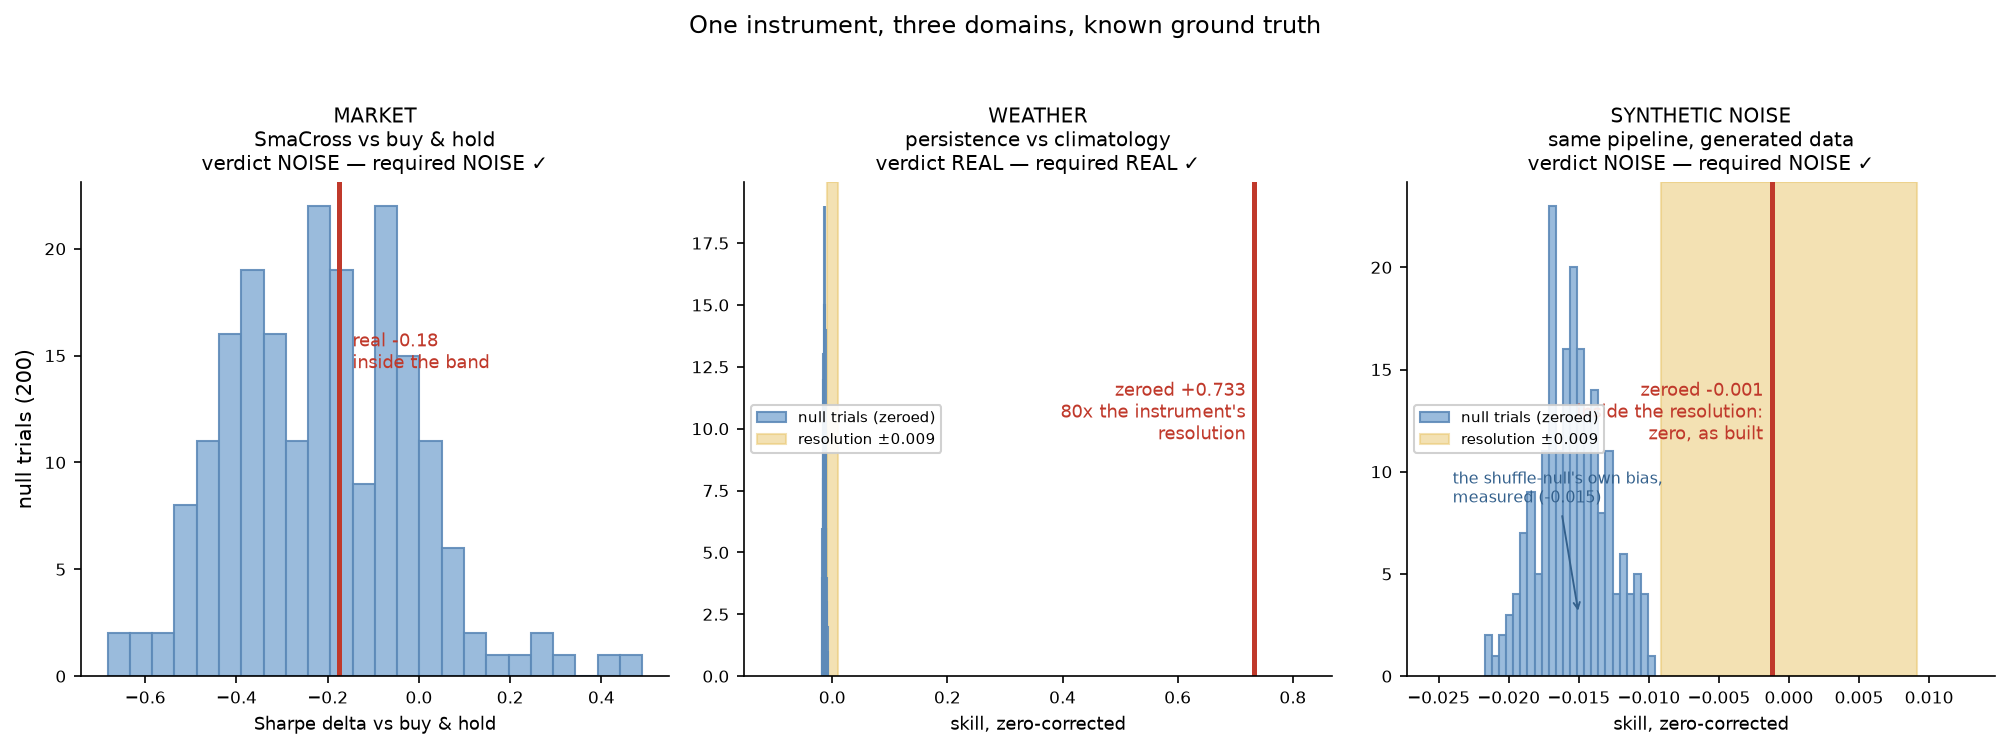
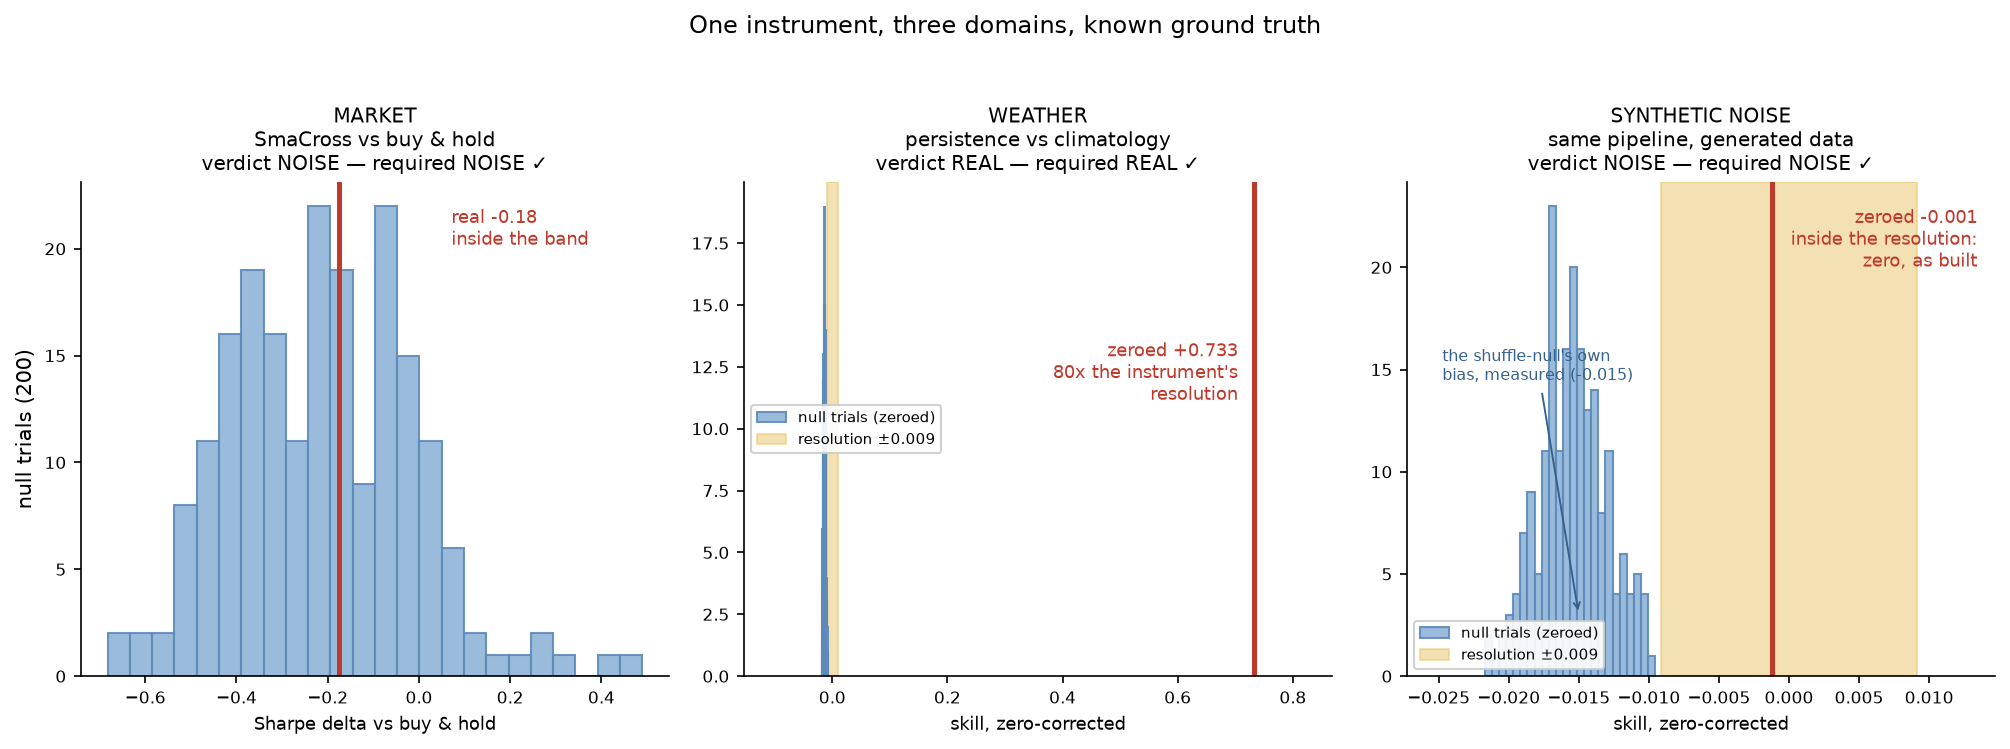
night2: fix clipped chart annotation (axes-fraction placement); chart generator committed to scripts/

diff --git a/scripts/make_universality_chart.py b/scripts/make_universality_chart.py
@@ -1,0 +1,112 @@
+#!/usr/bin/env python
+"""Regenerate reports/universality.png from the committed artifacts.
+
+The chart is a committed artifact, so its generator lives in the repo too —
+same discipline as refresh_docs.py. Reads night_bands.json,
+weather_validation.json and synthetic_noise_validation.json; writes the
+three-panel figure the README opens with.
+
+Layout note, learned the hard way: every annotation is placed in AXES
+FRACTION coordinates (ax.transAxes), never at data coordinates derived from
+the result values — a data-placed label near an axis edge clips silently
+("...de the resolution"), and nothing fails.
+
+Usage:  python scripts/make_universality_chart.py
+"""
+
+from __future__ import annotations
+
+import json
+import sys
+from pathlib import Path
+
+ROOT = Path(__file__).resolve().parent.parent
+sys.path.insert(0, str(ROOT))
+
+import matplotlib
+
+matplotlib.use("Agg")
+import matplotlib.pyplot as plt  # noqa: E402
+import numpy as np  # noqa: E402
+
+RED, BLUE, EDGE, AMBER = "#c0392b", "#8fb4d9", "#5d8ab8", "#e8c468"
+
+
+def main() -> int:
+    rep = ROOT / "reports"
+    nb = json.loads((rep / "night_bands.json").read_text(encoding="utf-8"))
+    wp = json.loads((rep / "weather_validation.json").read_text(
+        encoding="utf-8"))["results"]["persistence"]
+    sp = json.loads((rep / "synthetic_noise_validation.json").read_text(
+        encoding="utf-8"))["results"]["persistence"]
+
+    fig, axes = plt.subplots(1, 3, figsize=(13.5, 4.8), dpi=150)
+
+    # --- Panel 1: market, raw Sharpe delta ------------------------------
+    ax = axes[0]
+    null = np.array(nb["bootstrap"]["deltas"])
+    real = nb["headline"]["delta"]
+    ax.hist(null, bins=24, color=BLUE, edgecolor=EDGE, alpha=0.9)
+    ax.axvline(real, color=RED, lw=2.4)
+    ax.text(0.63, 0.95, f"real {real:+.2f}\ninside the band",
+            transform=ax.transAxes, color=RED, fontsize=8.5, va="top")
+    ax.set_title("MARKET\nSmaCross vs buy & hold\n"
+                 "verdict NOISE \u2014 required NOISE \u2713", fontsize=9.5)
+    ax.set_xlabel("Sharpe delta vs buy & hold", fontsize=8.5)
+    ax.set_ylabel("null trials (200)")
+
+    # --- Panels 2 & 3: zero-corrected skill with the resolution zone ----
+    for ax, r, title, note, text_xy, text_ha, leg_loc in (
+        (axes[1], wp,
+         "WEATHER\npersistence vs climatology\n"
+         "verdict REAL \u2014 required REAL \u2713",
+         "80x the instrument's\nresolution", (0.84, 0.68), "right",
+         "center left"),
+        (axes[2], sp,
+         "SYNTHETIC NOISE\nsame pipeline, generated data\n"
+         "verdict NOISE \u2014 required NOISE \u2713",
+         "inside the resolution:\nzero, as built", (0.97, 0.95), "right",
+         "lower left"),
+    ):
+        z, res = r["zero_offset"], r["resolution"]
+        null_c = np.array(r["null_stats"]) - z
+        real_c = r["calibrated"]
+        ax.hist(null_c, bins=24, color=BLUE, edgecolor=EDGE, alpha=0.9,
+                label="null trials (zeroed)")
+        ax.axvspan(-res, res, color=AMBER, alpha=0.5, zorder=0,
+                   label=f"resolution \u00b1{res:.3f}")
+        ax.axvline(real_c, color=RED, lw=2.4)
+        lo = min(null_c.min(), real_c, -res)
+        hi = max(null_c.max(), real_c, res)
+        pad = 0.18 * (hi - lo)
+        ax.set_xlim(lo - pad, hi + pad)
+        ax.text(*text_xy, f"zeroed {real_c:+.3f}\n{note}",
+                transform=ax.transAxes, color=RED, fontsize=8.5,
+                va="top", ha=text_ha)
+        ax.set_title(title, fontsize=9.5)
+        ax.set_xlabel("skill, zero-corrected", fontsize=8.5)
+        ax.legend(loc=leg_loc, fontsize=7, framealpha=0.9)
+
+    # The synthetic panel shows the whole zero-test story: the shuffle-null
+    # histogram sits below the honest zero by its own measured bias.
+    axes[2].annotate("the shuffle-null's own\nbias, measured (-0.015)",
+                     xy=(-0.015, 3.0), xycoords="data",
+                     xytext=(0.06, 0.60), textcoords="axes fraction",
+                     fontsize=7.5, color="#33608c",
+                     arrowprops=dict(arrowstyle="->", color="#33608c",
+                                     lw=0.9))
+
+    for ax in axes:
+        ax.tick_params(labelsize=8)
+        ax.spines[["top", "right"]].set_visible(False)
+    fig.suptitle("One instrument, three domains, known ground truth",
+                 fontsize=11.5, y=1.03)
+    fig.tight_layout()
+    out = rep / "universality.png"
+    fig.savefig(out, bbox_inches="tight")
+    print(f"wrote {out.relative_to(ROOT)}")
+    return 0
+
+
+if __name__ == "__main__":
+    raise SystemExit(main())

diff --git a/NIGHT_LOG_2.md b/NIGHT_LOG_2.md
@@ -226,3 +226,13 @@ are the core, T5–T7 skippable; hard rules of NIGHT_SHIFT_2.md unchanged.
 - 5 scorer tests on synthetic lines; 3 mutants killed (skill sign flipped,
   scores-before-due, lookahead climatology). Suite 125 (+3 slow).
 - Owner's morning ritual from tomorrow: `python scripts/score_predictions.py`.
+
+### Post-queue fix — clipped chart annotation  ✅  (14:0x)
+- Owner spotted panel 3 of universality.png rendering "de the resolution"
+  (left-clipped): the annotation was placed at DATA coordinates derived from
+  the result value, which drifted outside the axis. All annotations now use
+  axes-fraction coordinates (transAxes), which cannot clip.
+- The generator also moved from a tmp scratch script into
+  `scripts/make_universality_chart.py` — a committed artifact deserves a
+  committed generator (the refresh_docs discipline). Regenerated; all three
+  panels' annotations verified fully inside their axes. Gates green.
